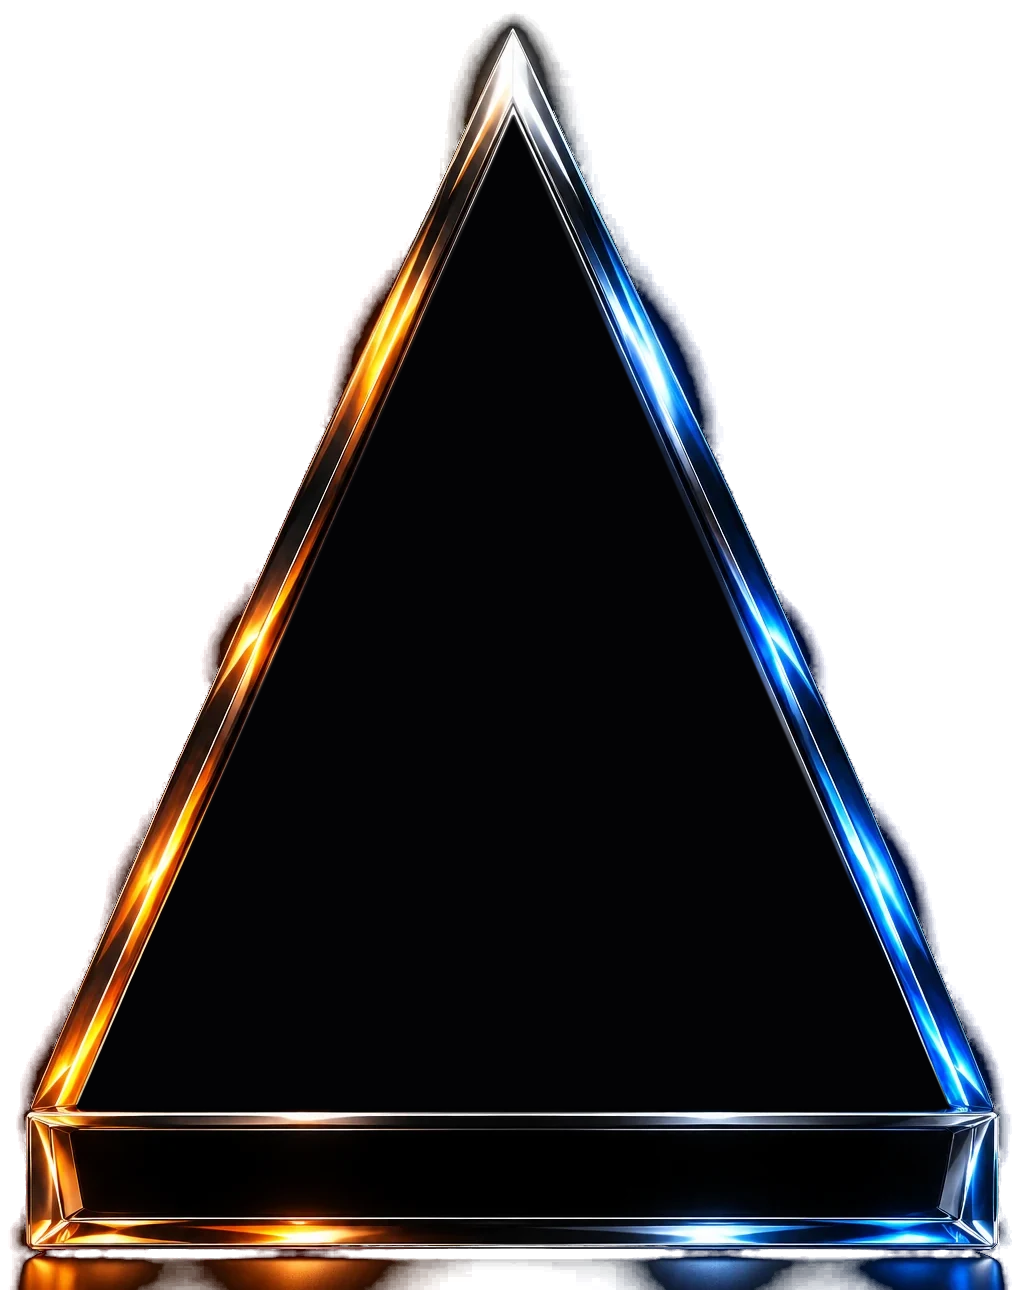
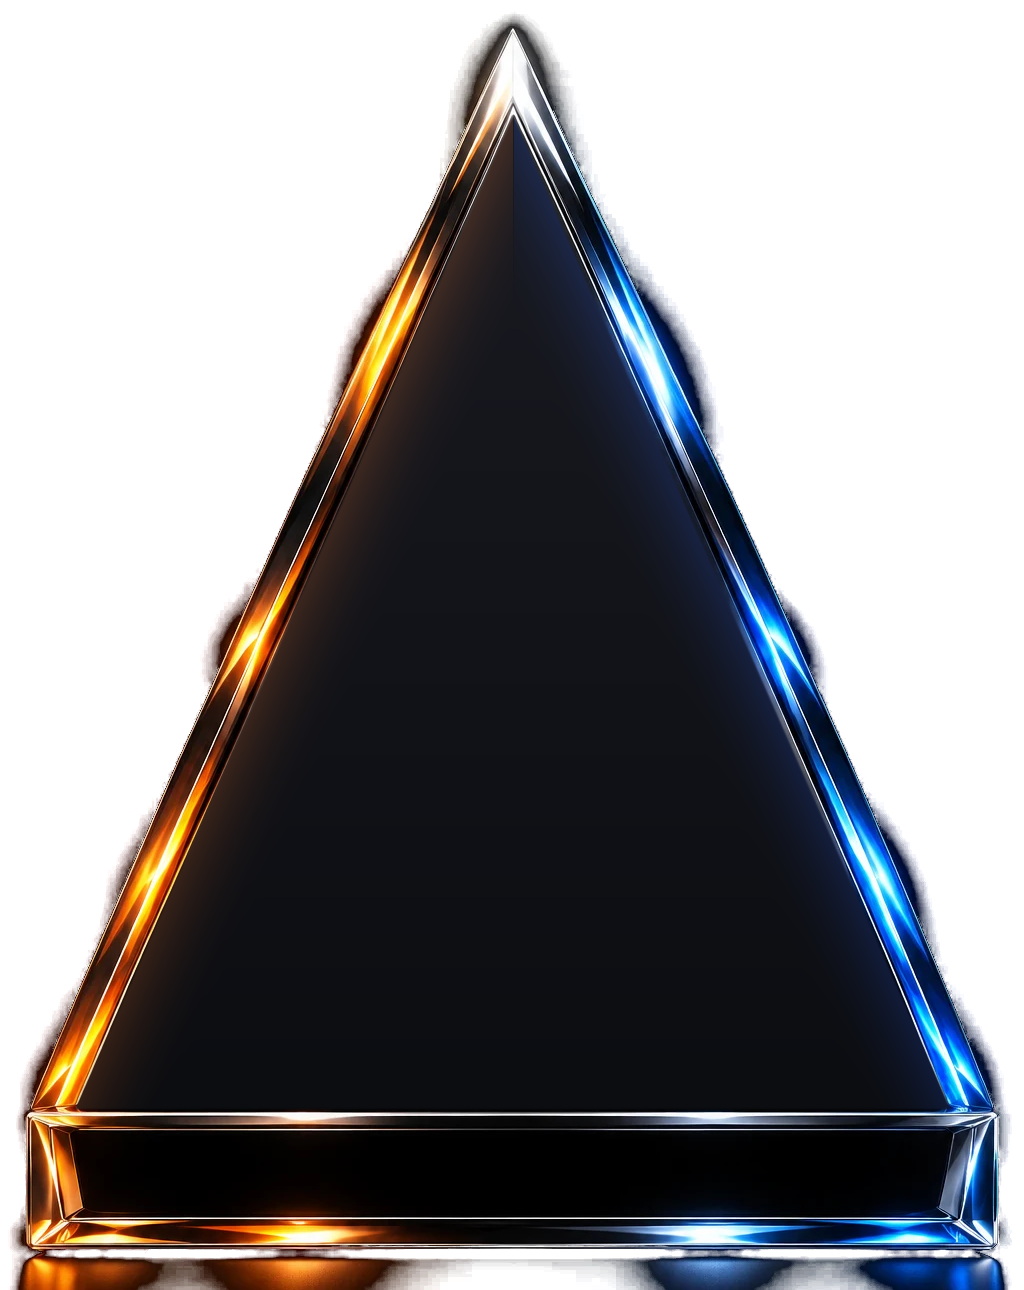
fix(board): soft graphite plate inside the obsidian frame instead of flat black

Changed region(s): [[0.0625, 0.093, 0.9375, 0.8682]]

diff --git a/src/board/cabinet.ts b/src/board/cabinet.ts
@@ -72,8 +72,9 @@ export const CABINET_URL: string = cabinetUrl;
 /**
  * Second design, the classic look: a black obsidian triangle in a mirror-chrome bevel with
  * light inlaid in it, amber on the left and blue on the right, and a chrome-rimmed tray for
- * the bins. The art's grey inner facet is painted out, so the black plate runs right up to
- * the lit bevel and the playfield ends there. Measured on `art/cabinet-minimal.png`
+ * the bins. The art's grey inner facet is repainted as a soft graphite plate (lighter at the
+ * top, with a faint warm and cool glow along the sides) that runs right up to
+^ * the lit bevel, and the playfield ends there. Measured on `art/cabinet-minimal.png`
  * (1024×1290, cropped from `art/cabinet-minimal-source.webp`). The pyramid sits on the tray and its row gap matches
  * the sides' slope, so the rows run parallel to the bevel with an even margin.
  */
